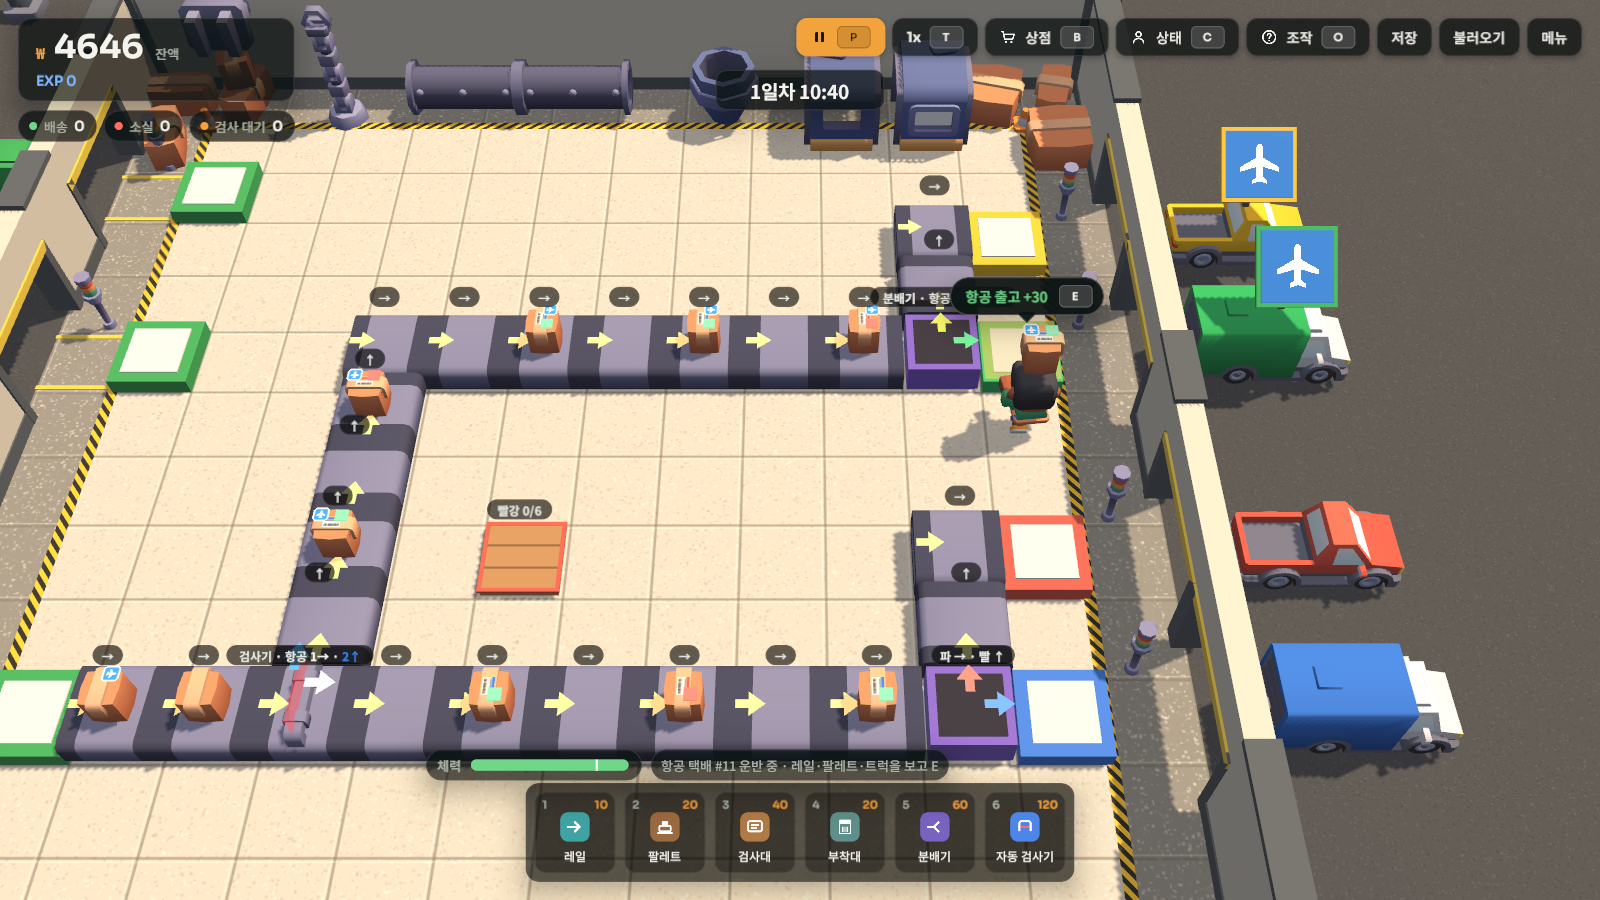
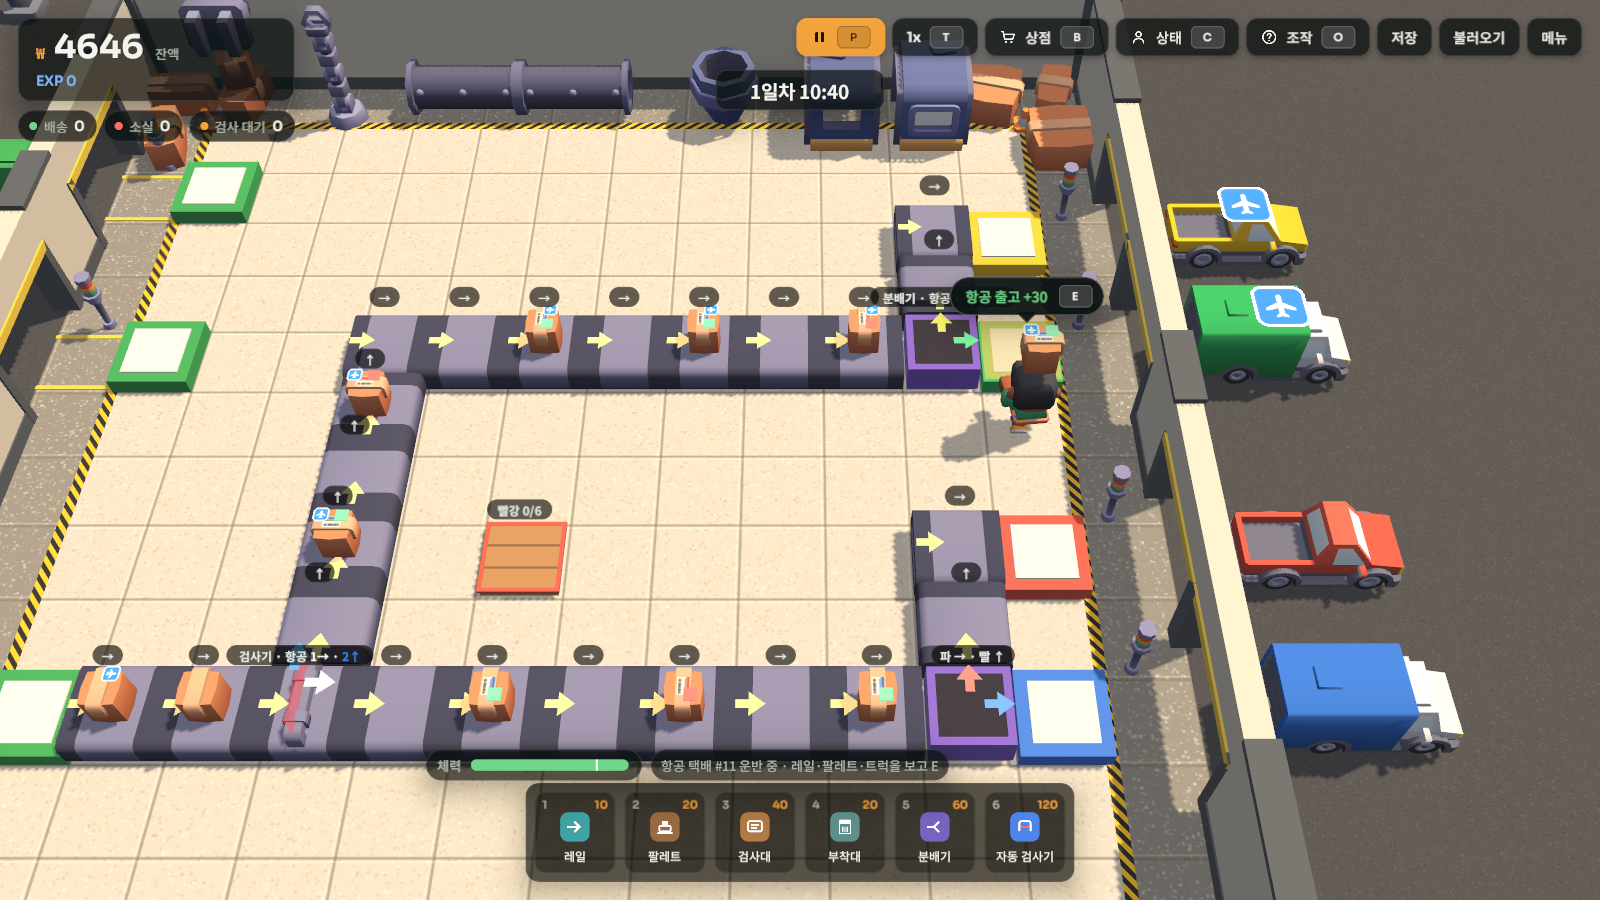
feat: air mark on the truck roofs instead of a floating sign
The air trucks now carry the same air mark as the boxes, laid flat on
the roof, replacing the post-mounted billboard.

Changed region(s): [[0.7188, 0.1244, 0.8438, 0.3733], [0.75, 0.4356, 0.7812, 0.4667]]

diff --git a/Assets/Scripts/Game/WorldBuilder.cs b/Assets/Scripts/Game/WorldBuilder.cs
@@ -348,7 +348,11 @@ namespace ParcelFactory.Game
             SideWall(westWall, -HalfBuilding, rows);
         }
 
-        /// <summary>트럭 지붕 위 비행기 표지판: 기둥 + 트럭 색 테두리 + 파란 판 + 흰 비행기(ui-air). 판은 카메라를 향해 기운다.</summary>
+        /// <summary>
+        /// 트럭 지붕에 붙인 항공 마크(사용자 요청: 떠 있는 표지판 대신 지붕에 붙인다). 상자 마크와 같은 mark-air 텍스처
+        /// (파란 둥근 사각 + 흰 테두리 + 흰 비행기)를 짐칸 지붕 위에 평평하게 눕힌다. 크기는 지붕 짧은 변의 72%.
+        /// 이름(AirSign/Board/Icon)은 테스트가 찾는다.
+        /// </summary>
         private static void AirSign(GameObject car, Color frameColor)
         {
             var rs = car.GetComponentsInChildren<Renderer>();
@@ -357,23 +361,18 @@ namespace ParcelFactory.Game
             foreach (var r in rs) b.Encapsulate(r.bounds);
             var sign = new GameObject("AirSign").transform;
             sign.SetParent(car.transform.parent, false);
-            sign.position = new Vector3(b.center.x, b.max.y, b.center.z);
-            const float post = 0.28f, size = 0.86f;
-            Box("Post", sign, new Vector3(0f, post / 2f, 0f), new Vector3(0.08f, post, 0.08f), MaterialLibrary.Lit(WallDark, 0.2f));
+            sign.position = new Vector3(b.center.x, b.max.y + 0.012f, b.center.z);
             var board = new GameObject("Board").transform;
             board.SetParent(sign, false);
-            board.localPosition = new Vector3(0f, post + size / 2f, 0f);
-            board.rotation = Quaternion.LookRotation(-CameraDir, Vector3.up); // 로컬 −z(Quad 앞면)가 카메라 쪽
-            Box("Frame", board, new Vector3(0f, 0f, 0.03f), new Vector3(size + 0.1f, size + 0.1f, 0.06f), MaterialLibrary.Lit(frameColor, 0.3f));
-            Box("Panel", board, new Vector3(0f, 0f, -0.005f), new Vector3(size, size, 0.02f), MaterialLibrary.Lit(AirBlue, 0.3f), castShadow: false);
+            board.localRotation = Quaternion.Euler(90f, 0f, 0f); // Quad 앞면(−z)이 위를 보게 눕힌다
+            float size = Mathf.Min(b.size.x, b.size.z) * 0.72f;
             var icon = GameObject.CreatePrimitive(PrimitiveType.Quad);
             icon.name = "Icon";
             Destroy(icon.GetComponent<Collider>());
             icon.transform.SetParent(board, false);
-            icon.transform.localPosition = new Vector3(0f, 0f, -0.02f);
-            icon.transform.localScale = new Vector3(size * 0.78f, size * 0.78f, 1f);
+            icon.transform.localScale = new Vector3(size, size, 1f);
             var ir = icon.GetComponent<Renderer>();
-            ir.sharedMaterial = MaterialLibrary.Decal(Resources.Load<Texture2D>("UI/Icons/ui-air"), 0.8f);
+            ir.sharedMaterial = MaterialLibrary.Decal(Resources.Load<Texture2D>("UI/Icons/mark-air"), 0.35f);
             ir.shadowCastingMode = ShadowCastingMode.Off;
         }
 

diff --git a/docs/superpowers/specs/2026-10-15-parcel-factory-design.md b/docs/superpowers/specs/2026-10-15-parcel-factory-design.md
@@ -409,7 +409,7 @@ Unity 레이어는 수동 플레이 테스트로 확인한다.
 - 새 칸 종류 `AirOutlet`(항공 출고, **초록** 트럭)과 `AirReturnDock`(항공 반품, **노랑** 트럭). 위치는 동쪽 벽 안쪽 `(11,7)`과 `(11,9)`. 기존 출고 `(11,2)`·반품 `(11,4)`과 같은 모양의 도크·벽 출입구·트럭이다.
 - 부지 확장 2를 사는 순간 두 칸이 도크로 바뀌고 트럭이 나타난다(`FactoryGrid.UnlockRegion(12)`에서 만든다. 확장 전에는 그 칸이 잠긴 칸이라 충돌이 없다). 단, v6 저장에서 부지 확장 2 뒤 그 두 칸에 지어 둔 설치물은 불러올 때 철거하고 설치비 전액을 돌려준다. 그 위에 있던 택배는 소실로 센다. 확장 전에는 트럭도 출입구도 없다. 저장 파일을 불러와도 같은 규칙으로 다시 생긴다.
 - 도크 동작은 기존 도크와 같다: 레일이 밀어 넣거나 작업자가 들고 와서 E. 해체·설치 불가. 기존 도크처럼 걸어서 지나갈 수 있다(스펙 10.3).
-- 기존 입고 트럭도 초록이지만 서쪽 벽에 있어 위치로 구분된다. 항공 트럭 위에는 비행기 아이콘 표지판을 단다.
+- 기존 입고 트럭도 초록이지만 서쪽 벽에 있어 위치로 구분된다. 항공 트럭 지붕에는 상자와 같은 항공 마크(`mark-air`)를 평평하게 붙인다(2026-10-21 사용자 수정: 떠 있는 표지판 대신).
 
 ### 14.2 항공 택배
 
